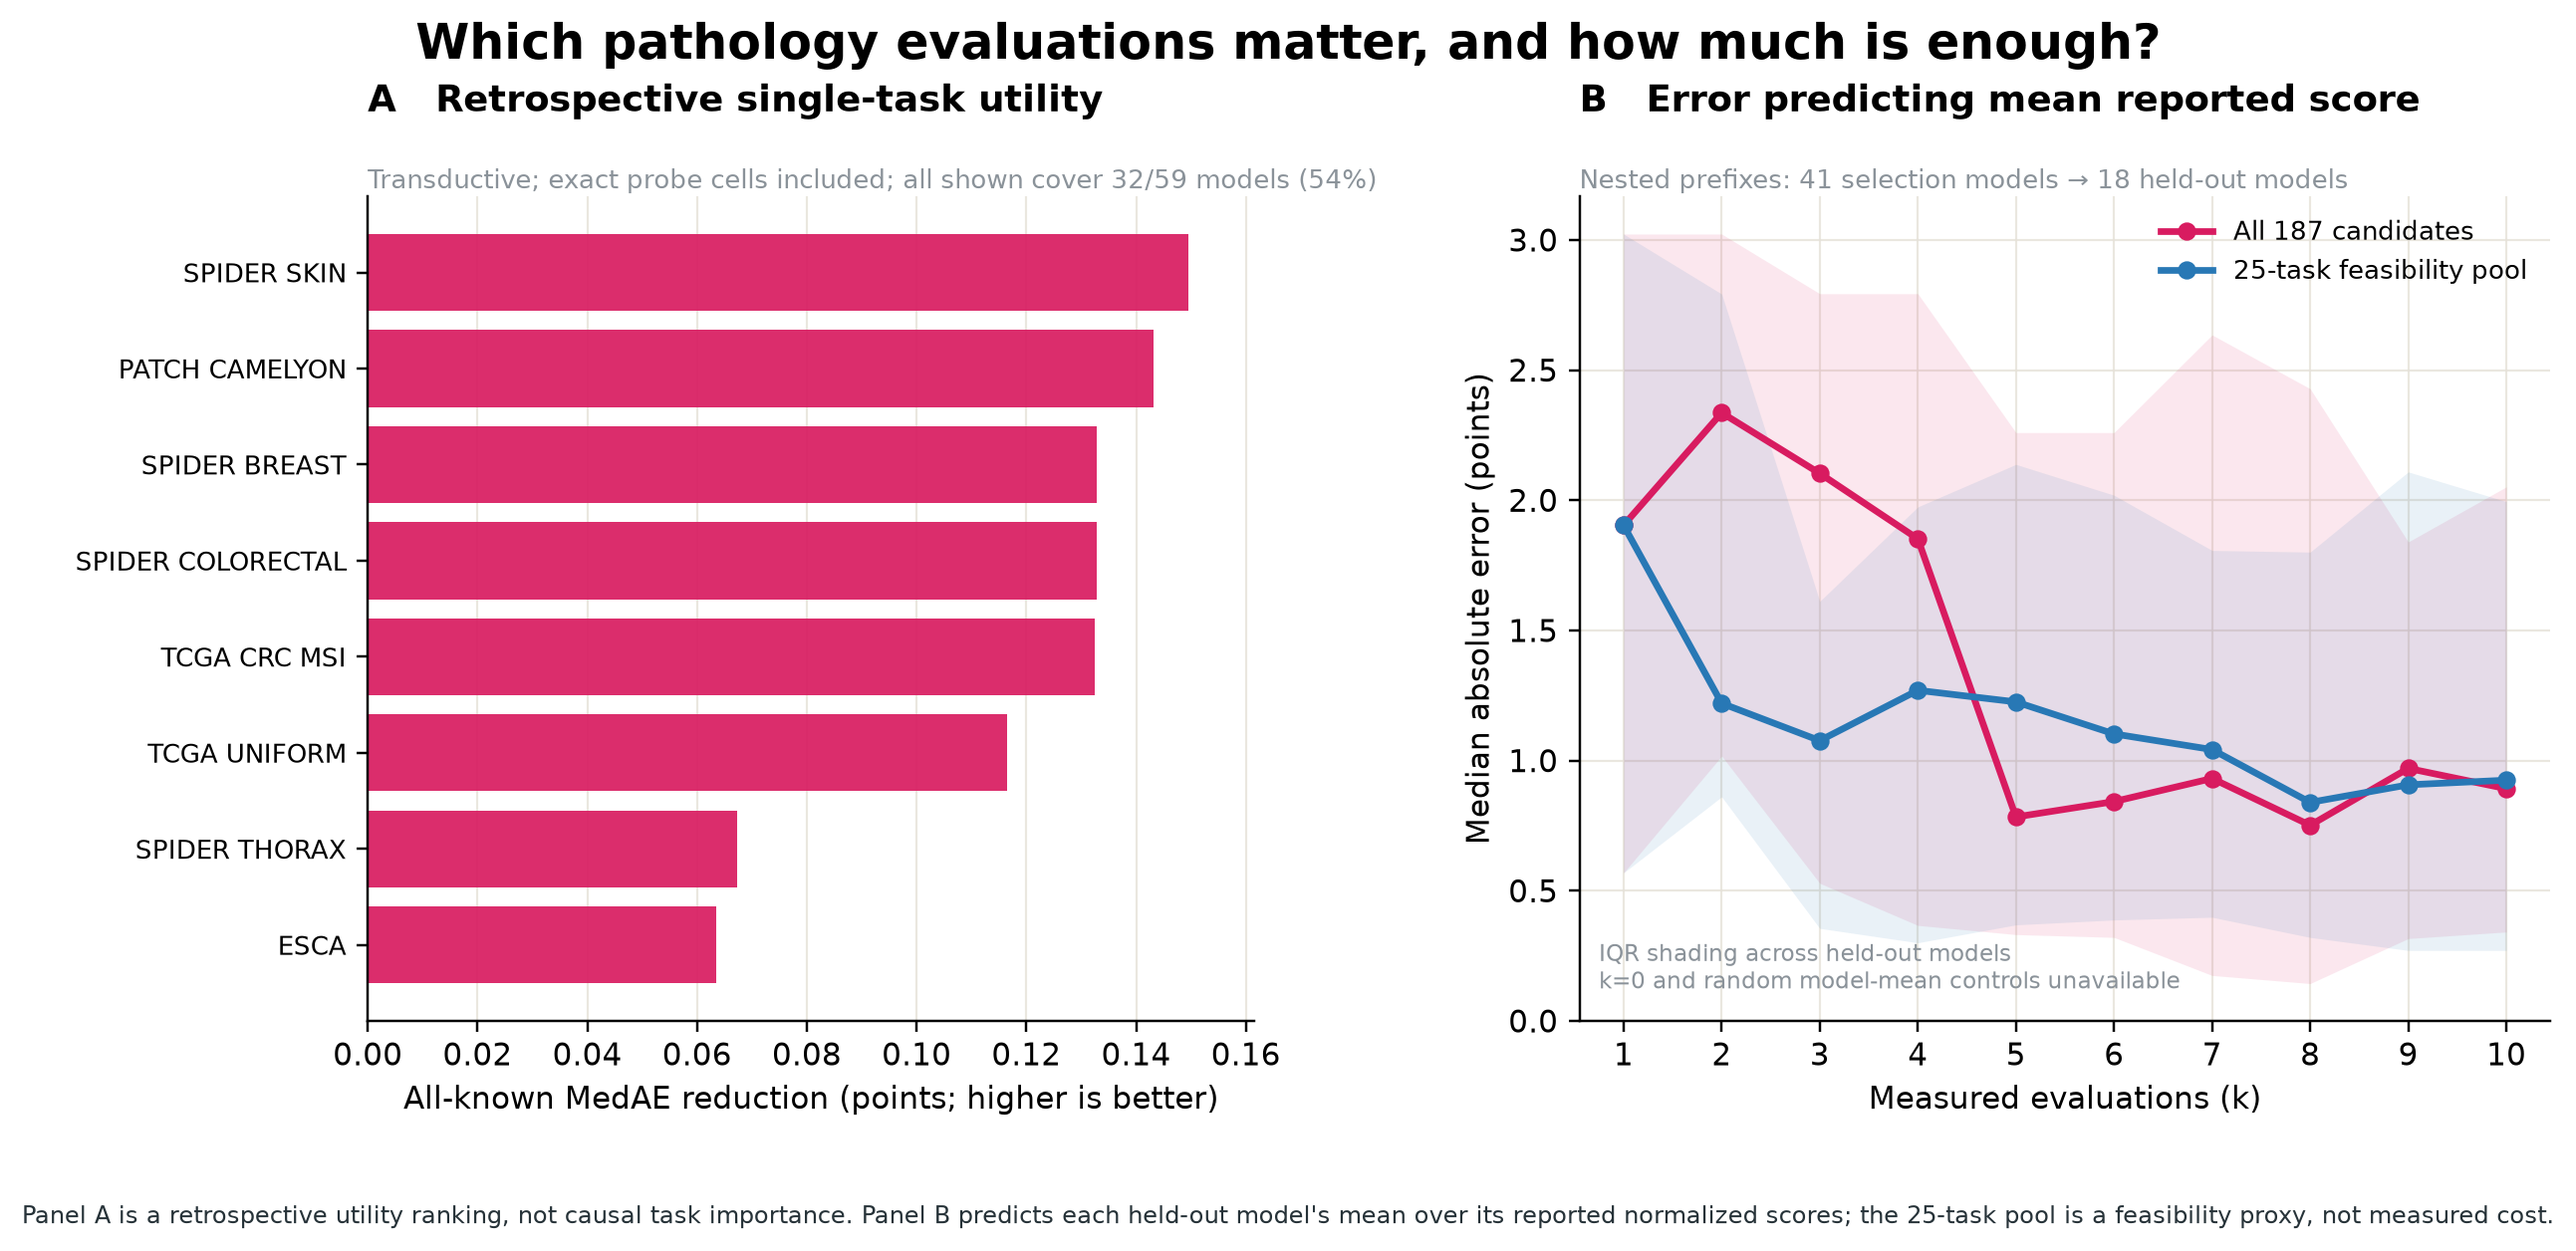
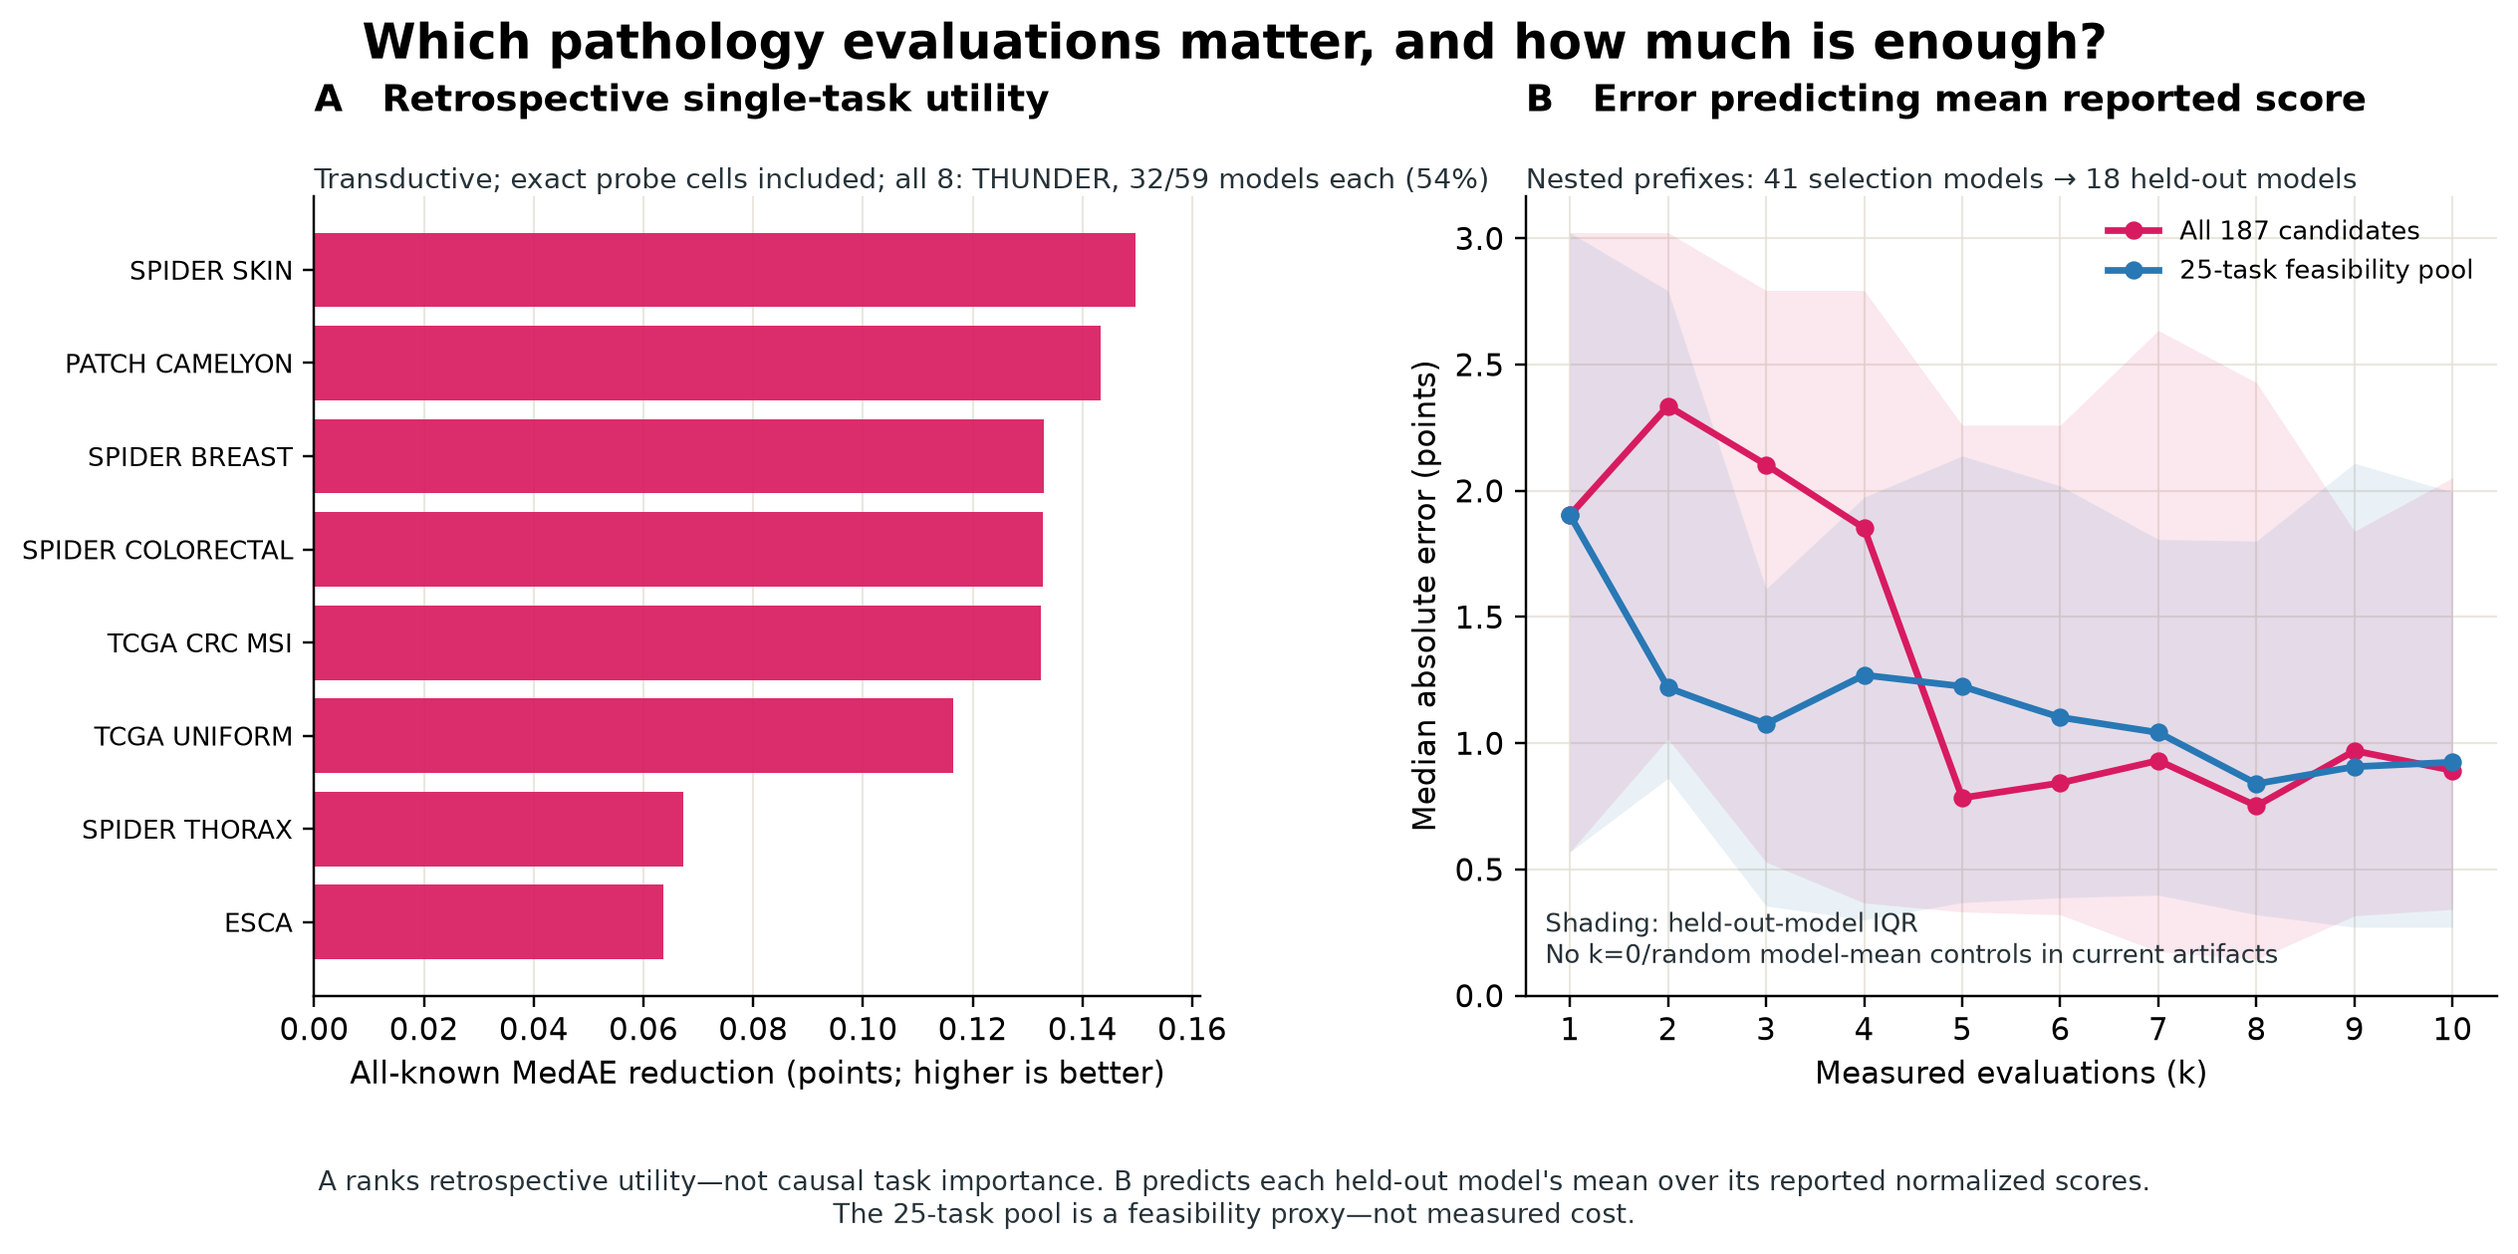
Clarify pathology probe figure scope

diff --git a/scripts/plot_probe_dual_objective.py b/scripts/plot_probe_dual_objective.py
@@ -262,10 +262,14 @@ def build_figure(
     )
     coverage_values = {round(float(row["coverage"]), 12) for row in ordered}
     common_coverage = next(iter(coverage_values)) if len(coverage_values) == 1 else None
+    displayed_suites = {str(row["suite_id"]).upper() for row in ordered}
+    common_suite = next(iter(displayed_suites)) if len(displayed_suites) == 1 else None
+    common_display_scope = common_coverage is not None and common_suite is not None
     coverage_note = (
-        f"; all shown cover {round(common_coverage * metadata['matrix_shape'][0])}/"
-        f"{metadata['matrix_shape'][0]} models ({100 * common_coverage:.0f}%)"
-        if common_coverage is not None
+        f"; all {len(ordered)}: {common_suite}, "
+        f"{round(common_coverage * metadata['matrix_shape'][0])}/"
+        f"{metadata['matrix_shape'][0]} models each ({100 * common_coverage:.0f}%)"
+        if common_display_scope
         else ""
     )
     utility_ax.text(
@@ -273,14 +277,14 @@ def build_figure(
         1.01,
         "Transductive; exact probe cells included" + coverage_note,
         transform=utility_ax.transAxes,
-        fontsize=8.5,
-        color=GRAY,
+        fontsize=9.1,
+        color=CHARCOAL,
     )
     utility_ax.grid(axis="x", color=GRID, alpha=0.8, lw=0.7)
     utility_ax.set_axisbelow(True)
     max_improvement = max(row["improvement"] for row in ordered)
-    utility_ax.set_xlim(0, max_improvement * (1.08 if common_coverage else 1.28))
-    if common_coverage is None:
+    utility_ax.set_xlim(0, max_improvement * (1.08 if common_display_scope else 1.28))
+    if not common_display_scope:
         for position, row in zip(y, ordered):
             utility_ax.text(
                 row["improvement"] + max_improvement * 0.025,
@@ -326,8 +330,8 @@ def build_figure(
         f"Nested prefixes: {metadata['n_train']} selection models → "
         f"{metadata['n_validation']} held-out models",
         transform=prediction_ax.transAxes,
-        fontsize=8.5,
-        color=GRAY,
+        fontsize=9.1,
+        color=CHARCOAL,
     )
     prediction_ax.grid(color=GRID, alpha=0.8, lw=0.7)
     prediction_ax.set_axisbelow(True)
@@ -335,11 +339,11 @@ def build_figure(
     prediction_ax.text(
         0.02,
         0.03,
-        "IQR shading across held-out models\n"
-        "k=0 and random model-mean controls unavailable",
+        "Shading: held-out-model IQR\n"
+        "No k=0/random model-mean controls in current artifacts",
         transform=prediction_ax.transAxes,
-        fontsize=7.5,
-        color=GRAY,
+        fontsize=8.4,
+        color=CHARCOAL,
         va="bottom",
     )
 
@@ -352,14 +356,14 @@ def build_figure(
     fig.text(
         0.5,
         0.018,
-        "Panel A is a retrospective utility ranking, not causal task importance. "
-        "Panel B predicts each held-out model's mean over its reported normalized scores; "
-        "the 25-task pool is a feasibility proxy, not measured cost.",
+        "A ranks retrospective utility—not causal task importance. B predicts each held-out "
+        "model's mean over its reported normalized scores.\n"
+        "The 25-task pool is a feasibility proxy—not measured cost.",
         ha="center",
-        fontsize=8,
+        fontsize=8.8,
         color=CHARCOAL,
     )
-    fig.subplots_adjust(left=0.15, right=0.98, bottom=0.18, top=0.84)
+    fig.subplots_adjust(left=0.15, right=0.98, bottom=0.20, top=0.84)
     return fig, utility_ax, prediction_ax
 
 

diff --git a/tests/test_probe_dual_objective_plot.py b/tests/test_probe_dual_objective_plot.py
@@ -67,8 +67,10 @@ class ProbeDualObjectivePlotTests(unittest.TestCase):
             for item in [*figure.texts, *utility_ax.texts, *prediction_ax.texts]
         )
         self.assertIn("Transductive", text)
+        self.assertIn("all 8: THUNDER", text)
         self.assertIn("41 selection models", text)
-        self.assertIn("k=0 and random model-mean controls unavailable", text)
+        self.assertIn("No k=0/random model-mean controls", text)
+        self.assertIn("not measured cost", text)
         plt.close(figure)
 
     def test_fails_closed_without_training_only_semantics(self) -> None:
